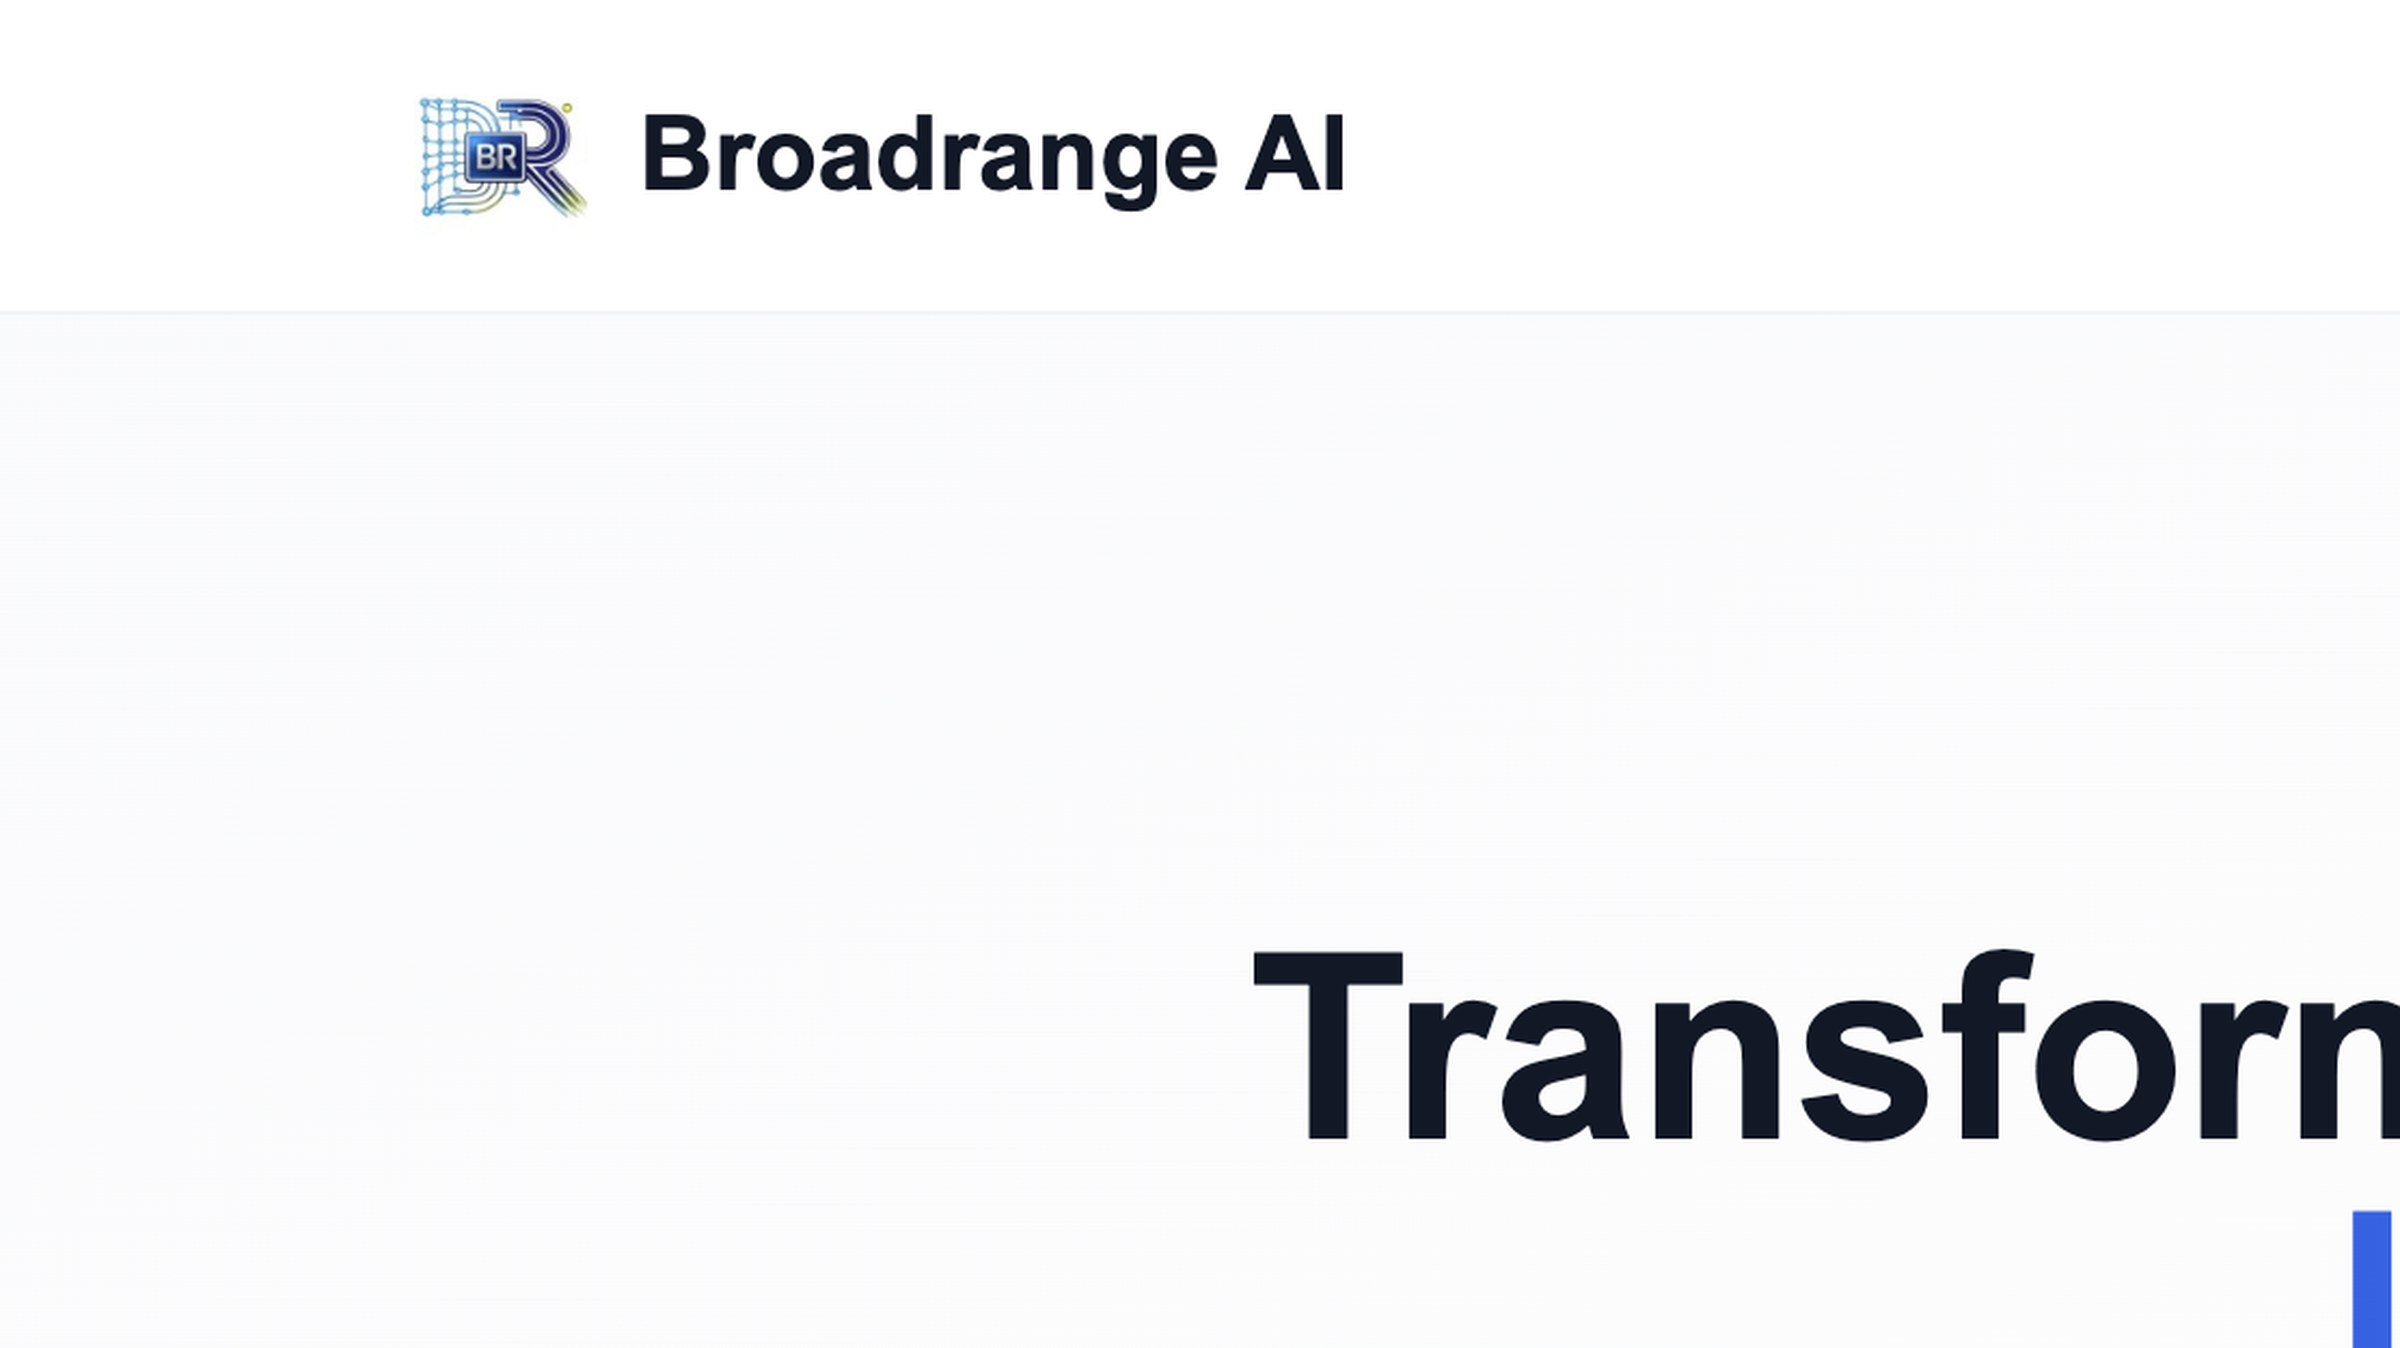
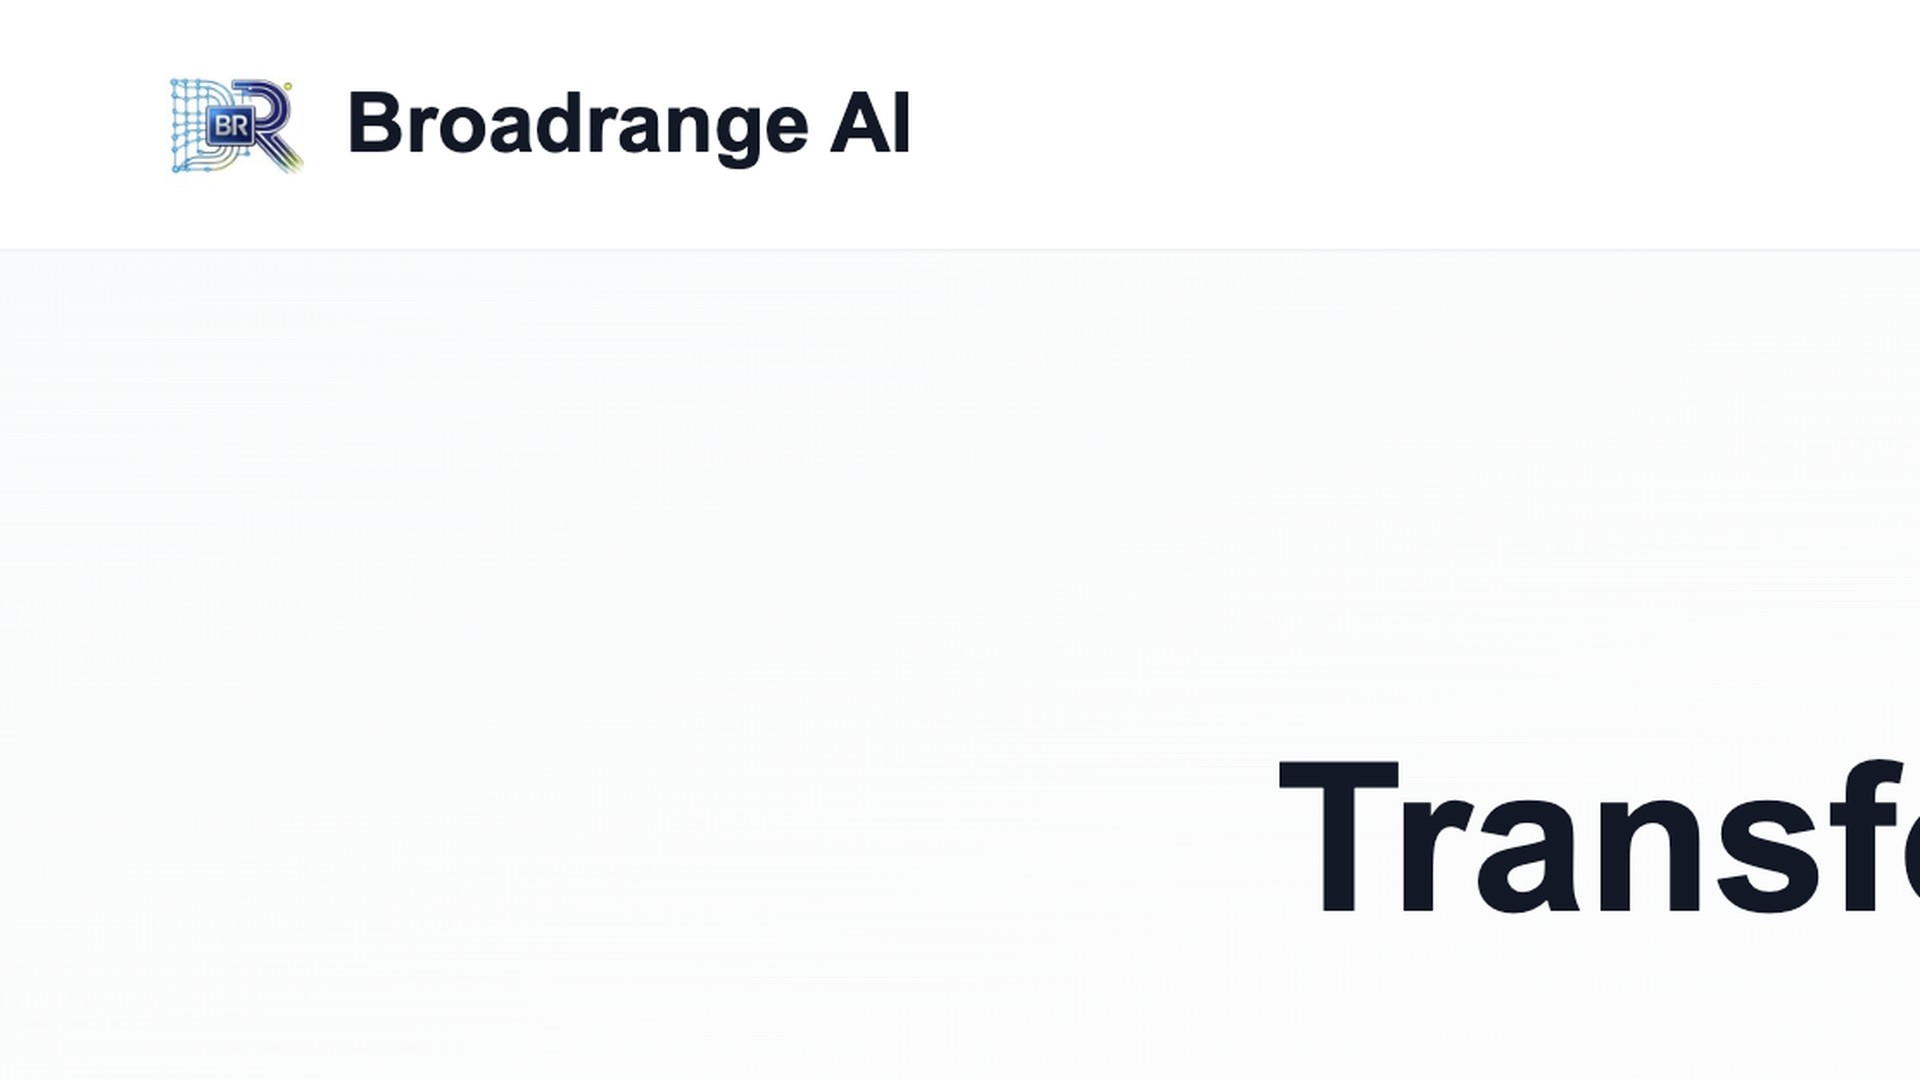
Restyle Sites as a full-bleed room so product work matches the film grammar, not a dashboard.

Changed region(s): [[0.5, 0.7028, 1.0, 0.8556], [0.0938, 0.0611, 0.5625, 0.1833], [0.9688, 0.8861, 1.0, 1.0]]

diff --git a/src/index.css b/src/index.css
@@ -920,18 +920,6 @@ ul, ol { margin: 0; padding: 0; list-style: none; }
   left: clamp(1rem, 2.2vw, 2rem);
   bottom: clamp(0.75rem, 1.8vw, 1.5rem);
 }
-.gate-site-name {
-  position: absolute;
-  z-index: 2;
-  right: clamp(1rem, 2.2vw, 2rem);
-  bottom: clamp(0.95rem, 2vw, 1.7rem);
-  font-size: 0.68rem;
-  font-weight: 500;
-  letter-spacing: 0.16em;
-  text-transform: uppercase;
-  color: rgba(240, 236, 228, 0.72);
-  pointer-events: none;
-}
 /* A rule that draws itself under the name on approach. The only mark
    on the two fields, and it only exists while you are reaching for
    one — it is feedback, not furniture. */
@@ -969,10 +957,7 @@ ul, ol { margin: 0; padding: 0; list-style: none; }
 }
 .gate-stage[data-near="images"] .gate-field:not([data-world="images"]) .gate-label,
 .gate-stage[data-near="films"] .gate-field:not([data-world="films"]) .gate-label,
-.gate-stage[data-near="sites"] .gate-field:not([data-world="sites"]) .gate-label,
-.gate-stage[data-near="images"] .gate-field:not([data-world="images"]) .gate-site-name,
-.gate-stage[data-near="films"] .gate-field:not([data-world="films"]) .gate-site-name,
-.gate-stage[data-near="sites"] .gate-field:not([data-world="sites"]) .gate-site-name {
+.gate-stage[data-near="sites"] .gate-field:not([data-world="sites"]) .gate-label {
   opacity: 0.45;
 }
 
@@ -1062,10 +1047,6 @@ ul, ol { margin: 0; padding: 0; list-style: none; }
   }
   .gate-stage .gate-field[data-world="sites"] {
     aspect-ratio: 16 / 10;
-  }
-  .gate-site-name {
-    right: clamp(0.9rem, 4vw, 1.5rem);
-    bottom: clamp(0.85rem, 3vw, 1.35rem);
   }
   .gate-stage { gap: 1.6rem; }
   .gate-media img, .gate-media video { transform: scale(1); }
@@ -1271,138 +1252,126 @@ ul, ol { margin: 0; padding: 0; list-style: none; }
   inset: 0;
   display: grid;
   grid-template-rows: 1fr auto;
-  gap: clamp(1.2rem, 3vh, 2.2rem);
+  gap: 1.1rem;
   padding:
-    calc(4.5rem + env(safe-area-inset-top, 0px))
+    calc(3.4rem + env(safe-area-inset-top, 0px))
     var(--gutter)
-    calc(5.2rem + env(safe-area-inset-bottom, 0px));
+    calc(4.8rem + env(safe-area-inset-bottom, 0px));
   color: var(--ivory);
 }
-.sites-stage {
-  display: grid;
-  grid-template-columns: minmax(14rem, 0.9fr) minmax(0, 1.6fr);
-  gap: clamp(1.4rem, 4vw, 3.5rem);
-  align-items: end;
-  min-height: 0;
-}
-.sites-copy {
-  display: grid;
-  align-content: end;
-  gap: 0.85rem;
-  max-width: 28rem;
-  padding-bottom: 0.4rem;
-}
-.sites-kind {
-  font-size: 0.68rem;
-  letter-spacing: 0.18em;
-  text-transform: uppercase;
-  color: rgba(240, 236, 228, 0.5);
-}
-.sites-name {
-  font-family: var(--face);
-  font-size: clamp(2.2rem, 5vw, 4.2rem);
-  font-weight: 300;
-  letter-spacing: -0.035em;
-  line-height: 1.02;
-}
-.sites-line {
-  font-size: clamp(0.98rem, 1.5vw, 1.15rem);
-  line-height: 1.55;
-  color: rgba(240, 236, 228, 0.78);
-  max-width: 34ch;
-}
-.sites-open {
-  justify-self: start;
-  margin-top: 0.4rem;
-}
-.sites-count {
-  font-size: 0.66rem;
-  letter-spacing: 0.18em;
-  color: rgba(240, 236, 228, 0.42);
-  font-variant-numeric: tabular-nums;
-}
-.sites-surface {
+.sites-frame {
   position: relative;
-  display: block;
   min-height: 0;
-  aspect-ratio: 16 / 9;
   overflow: hidden;
-  background: #0a1018;
-  box-shadow:
-    0 0 0 1px rgba(240, 236, 228, 0.08),
-    0 28px 80px rgba(0, 0, 0, 0.45);
+  background: #070b12;
 }
-.sites-surface img {
+.sites-bleed {
+  position: absolute;
+  inset: 0;
   width: 100%;
   height: 100%;
   object-fit: cover;
   object-position: top center;
-  display: block;
+  opacity: 0;
+  transform: scale(1.04);
+  transition:
+    opacity 0.9s var(--ease),
+    transform 1.4s var(--ease-film);
+  pointer-events: none;
 }
-.sites-surface:hover img,
-.sites-surface:focus-visible img {
-  transform: scale(1.02);
-}
-.sites-surface img {
-  transition: transform 1s var(--ease-film);
-}
-.sites-index {
-  display: grid;
-  grid-auto-flow: column;
-  grid-auto-columns: minmax(7.5rem, 1fr);
-  gap: 0.65rem;
-  overflow-x: auto;
-  padding-bottom: 0.2rem;
-  scrollbar-width: none;
-}
-.sites-index::-webkit-scrollbar { display: none; }
-.sites-thumb {
-  border: 0;
-  padding: 0;
-  background: none;
-  color: rgba(240, 236, 228, 0.55);
-  text-align: left;
-  cursor: pointer;
-  display: grid;
-  gap: 0.45rem;
-}
-.sites-thumb img {
-  width: 100%;
-  aspect-ratio: 16 / 10;
-  object-fit: cover;
-  object-position: top center;
-  opacity: 0.55;
-  filter: saturate(0.7);
-  transition: opacity 0.4s var(--ease), filter 0.4s var(--ease);
-}
-.sites-thumb span {
-  font-size: 0.62rem;
-  letter-spacing: 0.12em;
-  text-transform: uppercase;
-}
-.sites-thumb[data-on] { color: var(--ivory); }
-.sites-thumb[data-on] img,
-.sites-thumb:hover img,
-.sites-thumb:focus-visible img {
+.sites-bleed[data-on] {
   opacity: 1;
-  filter: none;
+  transform: scale(1);
+}
+.sites-veil {
+  position: absolute;
+  inset: 0;
+  z-index: 1;
+  pointer-events: none;
+  background:
+    linear-gradient(
+      to top,
+      rgba(7, 11, 18, 0.96) 0%,
+      rgba(7, 11, 18, 0.72) 28%,
+      rgba(7, 11, 18, 0.18) 58%,
+      rgba(7, 11, 18, 0.35) 100%
+    );
+}
+.sites-words {
+  position: absolute;
+  z-index: 2;
+  left: clamp(1.1rem, 3vw, 2.4rem);
+  right: clamp(1.1rem, 3vw, 2.4rem);
+  bottom: clamp(1.2rem, 3.2vh, 2.2rem);
+  display: grid;
+  gap: 0.55rem;
+  max-width: 34rem;
+}
+.sites-kind {
+  font-size: 0.66rem;
+  letter-spacing: 0.18em;
+  text-transform: uppercase;
+  color: rgba(240, 236, 228, 0.55);
+}
+.sites-name {
+  font-family: var(--face);
+  font-size: clamp(2.4rem, 6vw, 4.6rem);
+  font-weight: 300;
+  letter-spacing: -0.04em;
+  line-height: 0.98;
+}
+.sites-line {
+  font-size: clamp(0.95rem, 1.5vw, 1.12rem);
+  line-height: 1.5;
+  color: rgba(240, 236, 228, 0.78);
+  max-width: 36ch;
+}
+.sites-open {
+  justify-self: start;
+  margin-top: 0.35rem;
+}
+.sites-names {
+  display: flex;
+  flex-wrap: wrap;
+  gap: 0.35rem 1.35rem;
+  align-items: center;
+  justify-content: center;
+}
+.sites-name-link {
+  border: 0;
+  padding: 0.35rem 0;
+  background: none;
+  cursor: pointer;
+  color: rgba(240, 236, 228, 0.38);
+  font-size: 0.68rem;
+  font-weight: 500;
+  letter-spacing: 0.14em;
+  text-transform: uppercase;
+  transition: color 0.35s var(--ease);
+}
+.sites-name-link:hover,
+.sites-name-link:focus-visible,
+.sites-name-link[data-on] {
+  color: var(--ivory);
+}
+.sites-name-link[data-on] {
+  color: var(--accent);
 }
 
-@media (max-width: 900px) {
-  .sites-stage {
-    grid-template-columns: 1fr;
-    align-items: stretch;
-    gap: 1.2rem;
+@media (max-width: 760px) {
+  .sites-room {
+    gap: 0.85rem;
+    padding-top: calc(4.2rem + env(safe-area-inset-top, 0px));
   }
-  .sites-copy {
-    order: 2;
-    align-content: start;
-    max-width: none;
+  .sites-names {
+    justify-content: flex-start;
+    gap: 0.2rem 1rem;
+    overflow-x: auto;
+    flex-wrap: nowrap;
+    scrollbar-width: none;
   }
-  .sites-surface { order: 1; }
-  .sites-index {
-    grid-auto-columns: minmax(6.2rem, 38vw);
-  }
+  .sites-names::-webkit-scrollbar { display: none; }
+  .sites-name-link { white-space: nowrap; }
 }
 
 /* ---------- FILMS — the screening room --------------------------- */

diff --git a/src/components/SitesRoom.tsx b/src/components/SitesRoom.tsx
@@ -6,10 +6,12 @@ import { WorldChrome } from "./ImageExhibition"
 /**
  * SITES — the product room.
  *
- * Films want a strip. Stills want a field. Products want a surface you
- * can look at and then open. One plate at a time: the live site on the
- * right, the name and one true line on the left. The rest wait as a thin
- * index along the foot, so the room stays a cut rather than a logo wall.
+ * Same grammar as the last frame and the gate: one full-bleed surface,
+ * words standing on it, nothing else. No side panel, no thumbnail strip,
+ * no card shadow — those make product work look like a pitch deck.
+ *
+ * The other products wait as names under the frame, the way a film strip
+ * waits under the program. Open site is the only call.
  */
 export function SitesRoom({ onClose }: { onClose: () => void }) {
   const [index, setIndex] = useState(0)
@@ -42,8 +44,21 @@ export function SitesRoom({ onClose }: { onClose: () => void }) {
 
   return (
     <div className="sites-room">
-      <div className="sites-stage">
-        <div className="sites-copy">
+      <div className="sites-frame">
+        {sites.map((item, i) => (
+          <img
+            key={item.id}
+            className="sites-bleed"
+            src={item.poster}
+            alt={i === index ? item.alt : ""}
+            data-on={i === index || undefined}
+            aria-hidden={i === index ? undefined : true}
+            decoding="async"
+          />
+        ))}
+        <span className="sites-veil" aria-hidden="true" />
+
+        <div className="sites-words">
           <p className="sites-kind">{work.kind}</p>
           <h2 className="sites-name">{work.name}</h2>
           <p className="sites-line">{work.line}</p>
@@ -58,35 +73,21 @@ export function SitesRoom({ onClose }: { onClose: () => void }) {
               ↗
             </span>
           </a>
-          <p className="sites-count">
-            {String(index + 1).padStart(2, "0")} / {String(sites.length).padStart(2, "0")}
-          </p>
         </div>
-
-        <a
-          className="sites-surface"
-          href={work.href}
-          target="_blank"
-          rel="noreferrer noopener"
-          aria-label={`Open ${work.name}`}
-        >
-          <img key={work.id} src={work.poster} alt={work.alt} decoding="async" />
-        </a>
       </div>
 
-      <div className="sites-index" role="tablist" aria-label="Sites">
+      <div className="sites-names" role="tablist" aria-label="Sites">
         {sites.map((item, i) => (
           <button
             key={item.id}
             type="button"
             role="tab"
             aria-selected={i === index}
-            className="sites-thumb"
+            className="sites-name-link"
             data-on={i === index || undefined}
             onClick={() => setIndex(i)}
           >
-            <img src={item.poster} alt="" loading="lazy" decoding="async" />
-            <span>{item.name}</span>
+            {item.name}
           </button>
         ))}
       </div>

diff --git a/src/components/PortalGate.tsx b/src/components/PortalGate.tsx
@@ -60,7 +60,6 @@ export function PortalGate({ onEnter }: { onEnter: (world: WorldId) => void }) {
   const flow = gatePreview.flow.map((id) => piece(id)).filter(Boolean)
   const films = gatePreview.films.map((id) => piece(id)).filter(Boolean)
   const film = films[clip % films.length]
-  const sitePlate = sites[site % sites.length]
 
   useEffect(() => setCoarse(window.matchMedia("(hover: none)").matches), [])
 
@@ -210,7 +209,6 @@ export function PortalGate({ onEnter }: { onEnter: (world: WorldId) => void }) {
             ))}
           </span>
           <span className="gate-label">Sites</span>
-          {sitePlate && <span className="gate-site-name">{sitePlate.name}</span>}
         </button>
 
         {/* Decorative: the destinations above are the content and the
